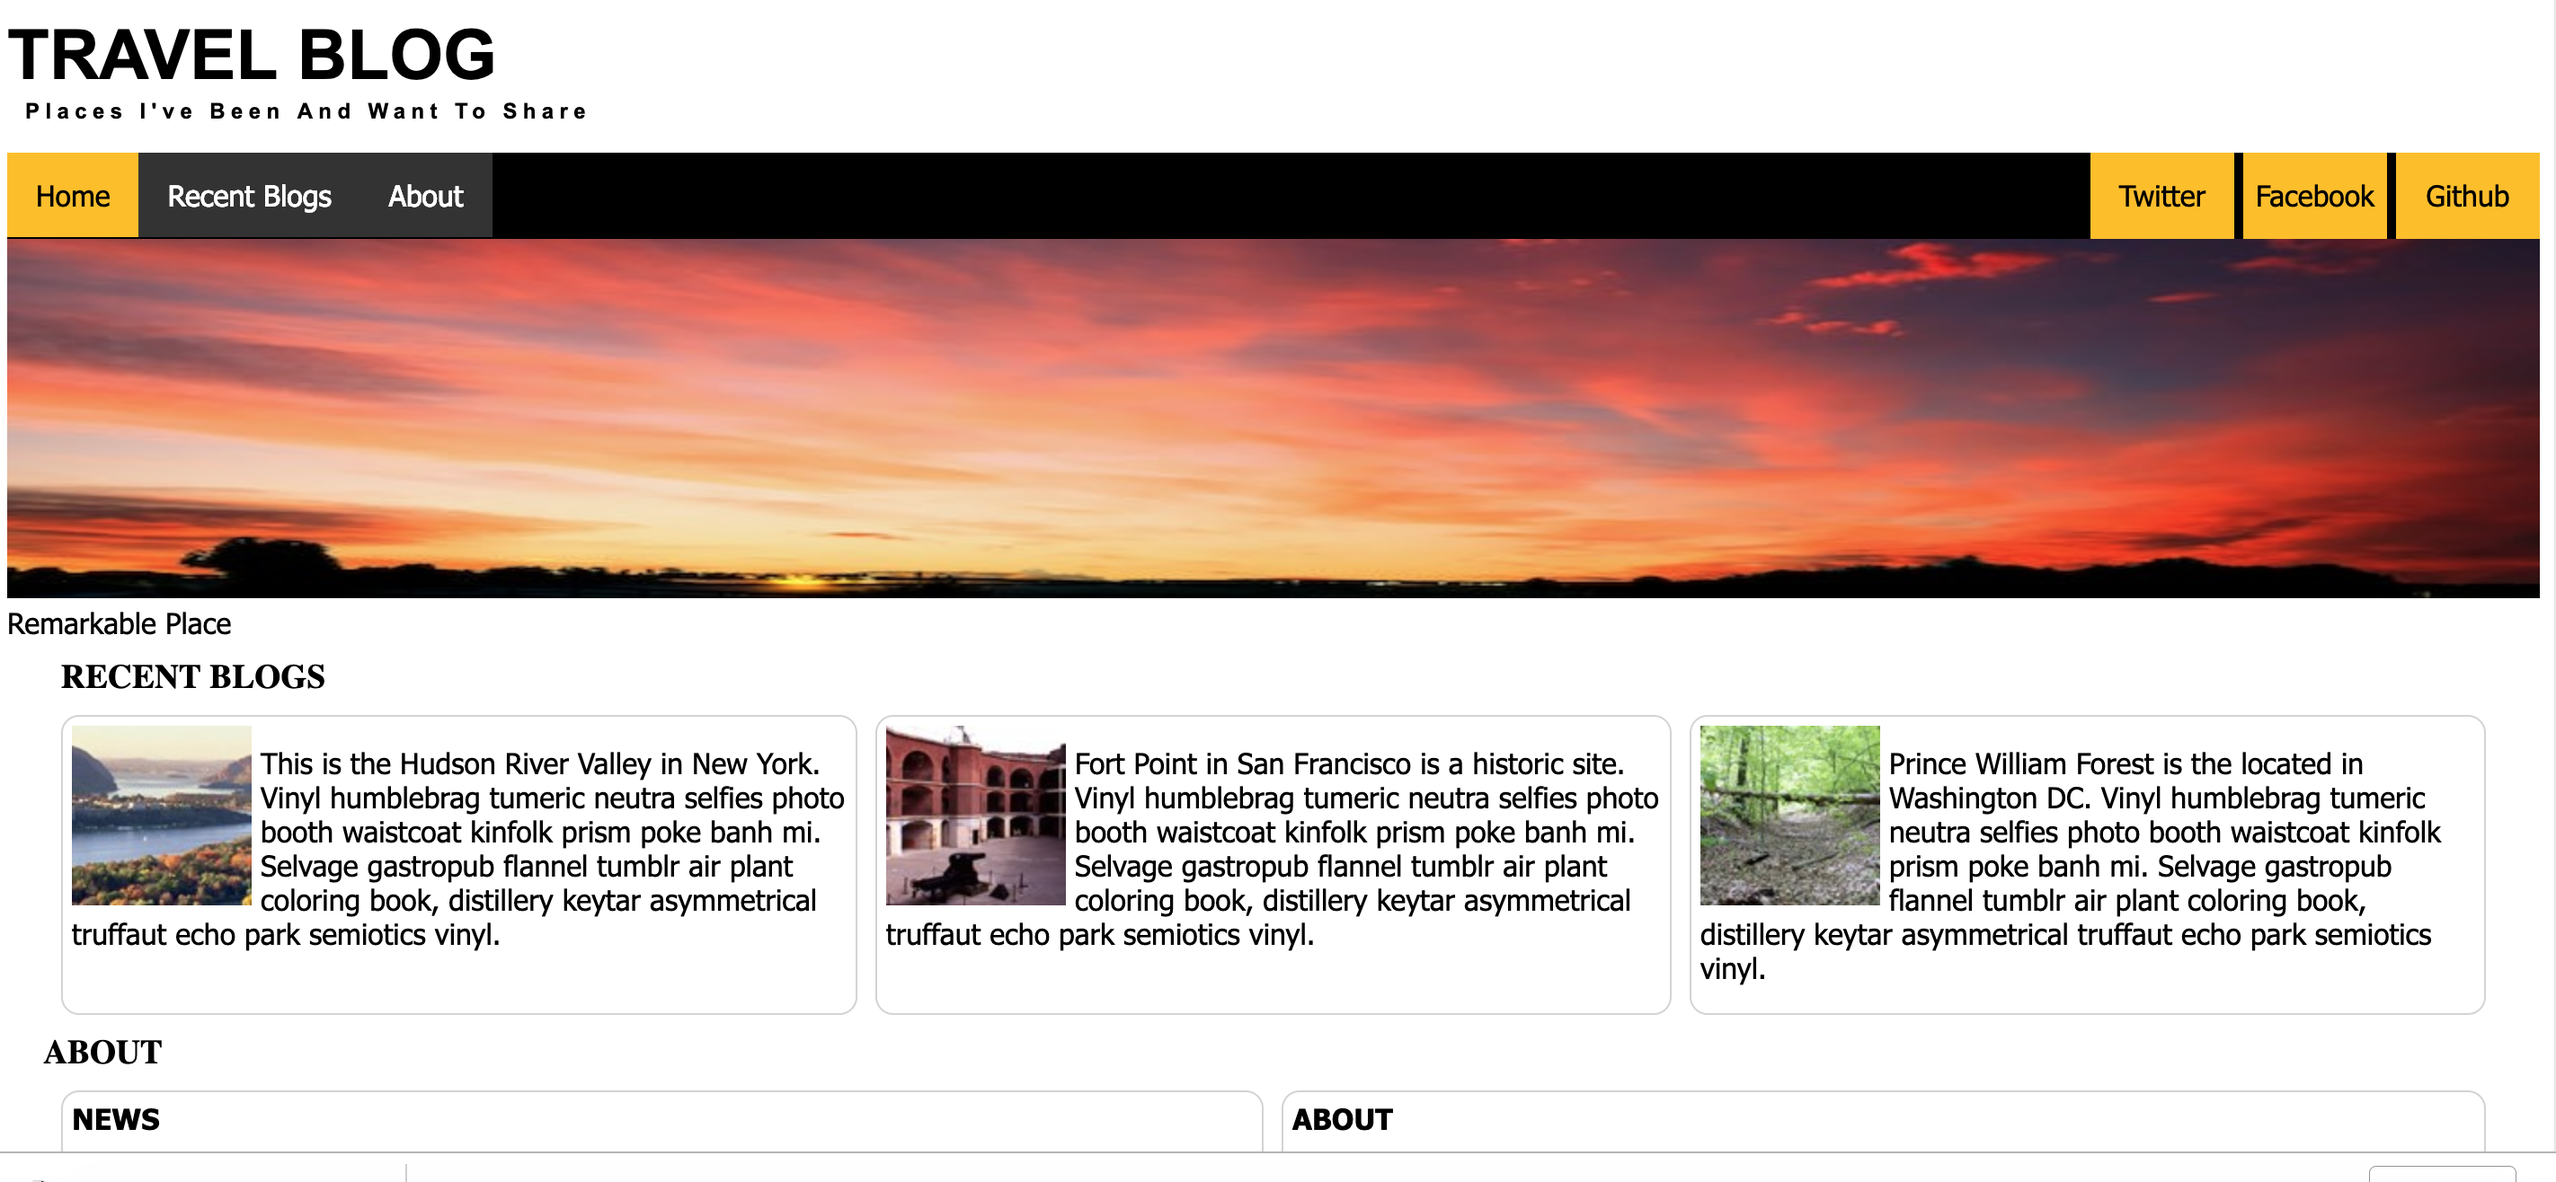
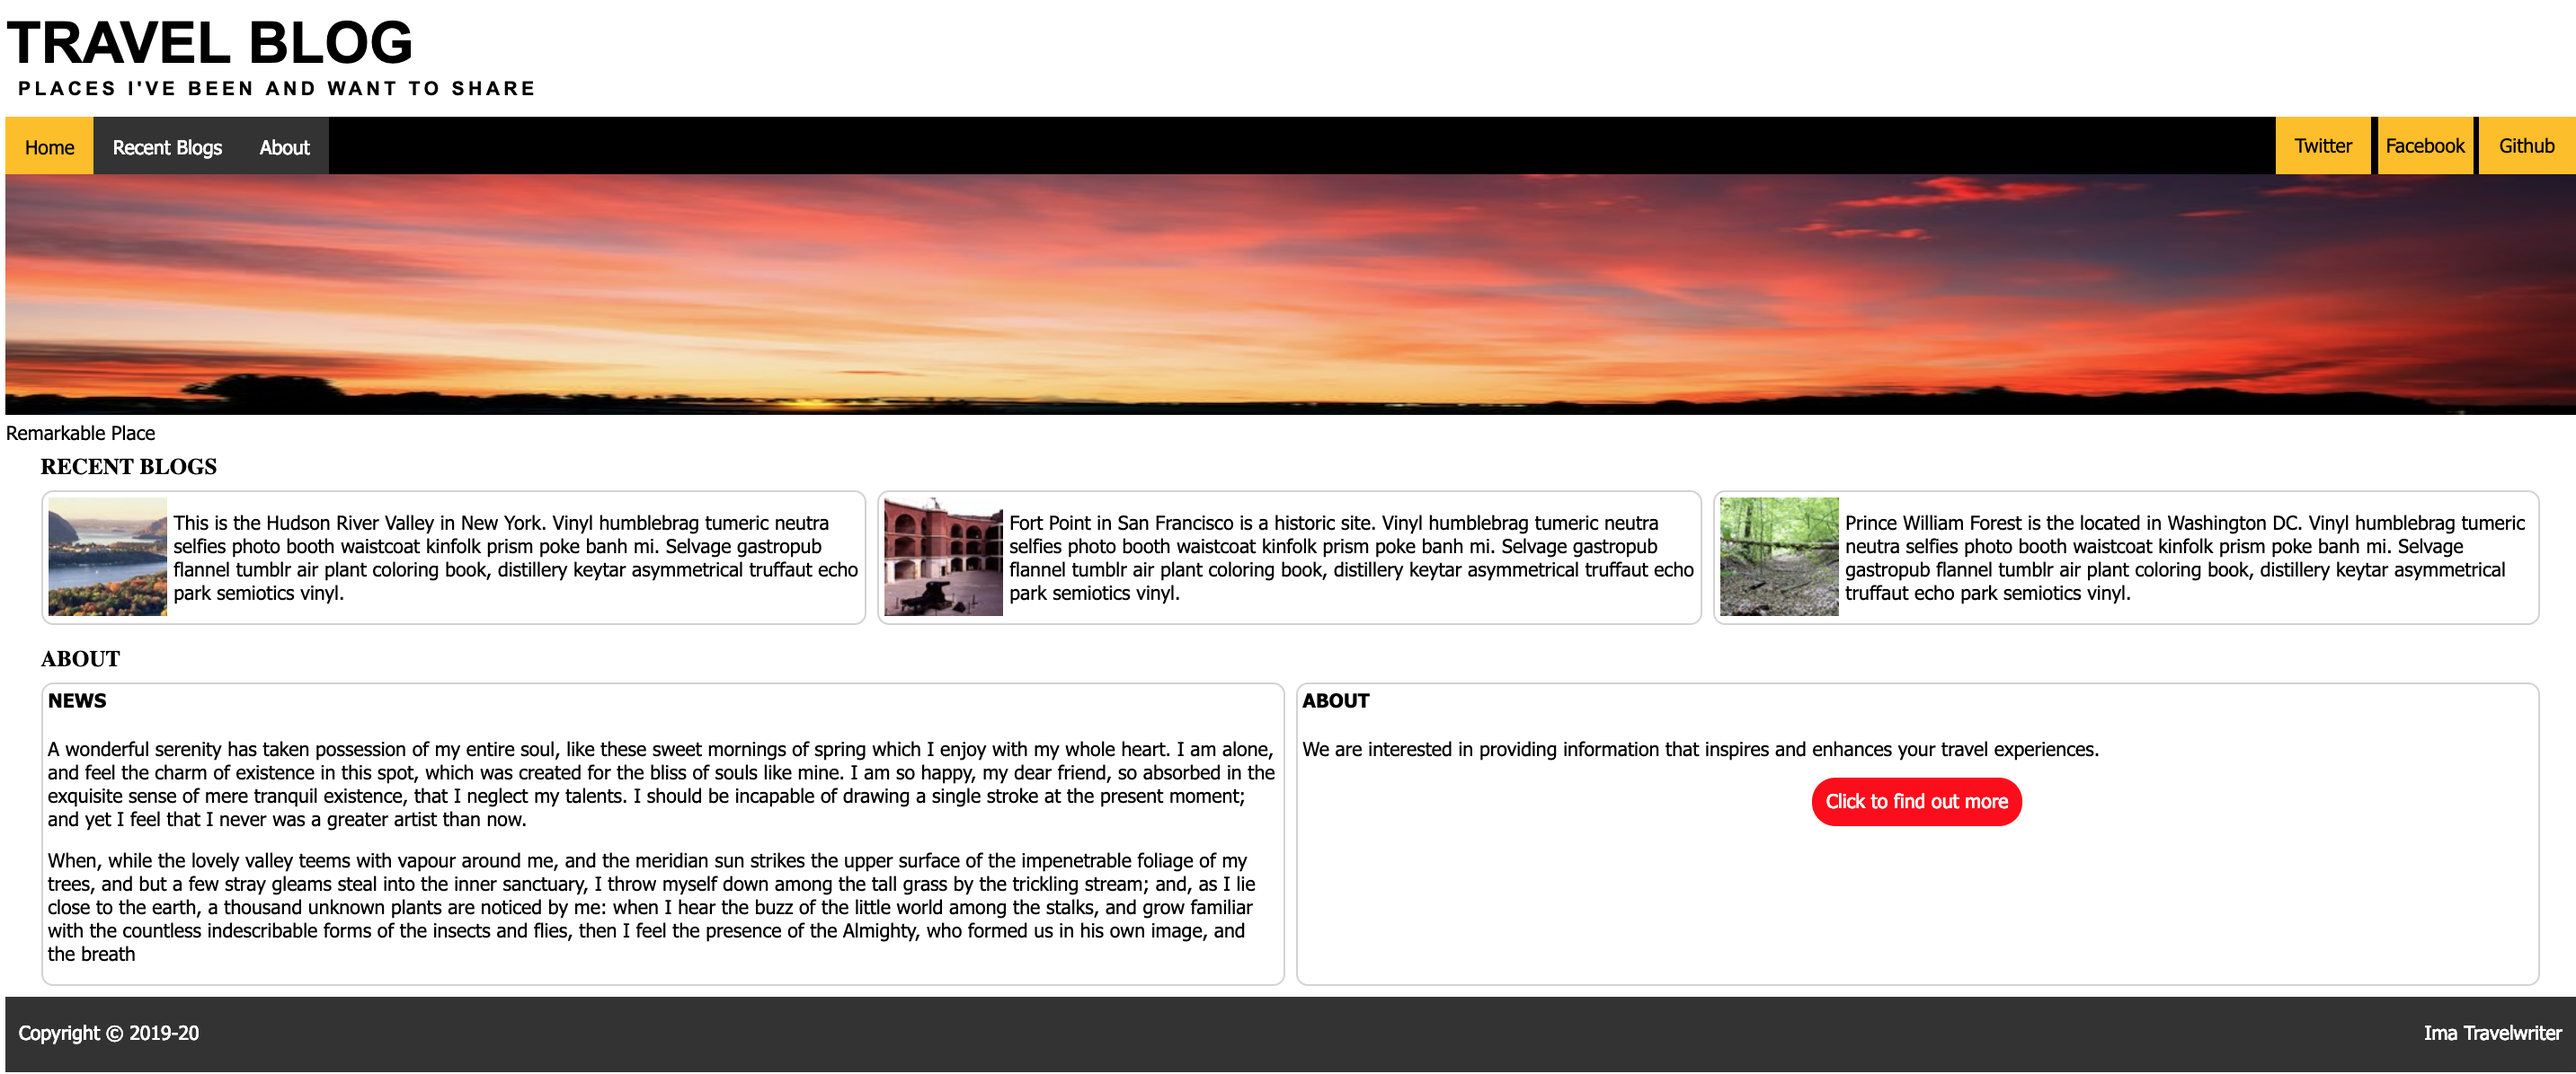
add image of finished project

diff --git a/README.md b/README.md
@@ -1,5 +1,9 @@
 # Project 1: Travel Blog  
 
+## Design
+
+![Travel Blog](images/finished-project.png)
+
 ## HTML  
 1. Create files: index.html and css/style.css.  Use VS code to generate default html in the index.html file (hint: use !<tab> in VS Code.).  Link CSS file into the html.  Add a meta tag to specify you as the author `<meta name="author" content="<your name">`
 
